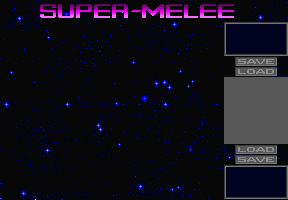
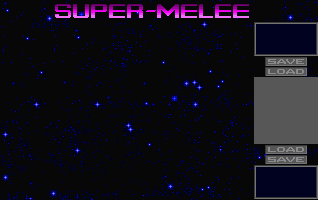
2 more melee ship slots, as the PC SC2 had. From chmmravatar. Bug #248.
git-svn-id: https://sc2.svn.sourceforge.net/svnroot/sc2/trunk/sc2@1123 8092fc87-c524-0410-9efc-e669fe64eaf9

diff --git a/src/sc2code/melee.c b/src/sc2code/melee.c
@@ -55,17 +55,18 @@ enum
 	EDIT_MELEE
 };
 
-#define MELEE_X_OFFS 4
+#define MELEE_X_OFFS 2
 #define MELEE_Y_OFFS 21
 #define MELEE_BOX_WIDTH 34
 #define MELEE_BOX_HEIGHT 34
 #define MELEE_BOX_SPACE 1
 
+#define MENU_X_OFFS 29
 #define NAME_AREA_HEIGHT 7
-#define MELEE_WIDTH 133
+#define MELEE_WIDTH 149
 #define MELEE_HEIGHT (48 + NAME_AREA_HEIGHT)
 
-#define INFO_ORIGIN_X 3
+#define INFO_ORIGIN_X 4
 #define INFO_WIDTH 58
 #define TEAM_INFO_ORIGIN_Y 3
 #define TEAM_INFO_HEIGHT (SHIP_INFO_HEIGHT + 75)
@@ -575,7 +576,7 @@ DrawMeleeShipStrings (PMELEE_STATE pMS, BYTE NewStarShip)
 	OldContext = SetContext (StatusContext);
 	GetContextClipRect (&OldRect);
 	r = OldRect;
-	r.corner.x += ((SAFE_X << 1) - 32);
+	r.corner.x += ((SAFE_X << 1) - 32) + MENU_X_OFFS;
 	r.corner.y += 76;
 	r.extent.height = SHIP_INFO_HEIGHT;
 	SetContextClipRect (&r);
@@ -1757,12 +1758,14 @@ InitPreBuilt (PMELEE_STATE pMS)
 	pMS->PreBuiltList[0].ShipList[0][3] = MELEE_URQUAN;
 	pMS->PreBuiltList[0].ShipList[0][4] = MELEE_MELNORME;
 	pMS->PreBuiltList[0].ShipList[0][5] = MELEE_ORZ;
-	pMS->PreBuiltList[0].ShipList[1][0] = MELEE_SPATHI;
-	pMS->PreBuiltList[0].ShipList[1][1] = MELEE_SYREEN;
-	pMS->PreBuiltList[0].ShipList[1][2] = MELEE_UTWIG;
+	pMS->PreBuiltList[0].ShipList[0][6] = MELEE_SPATHI;
+	pMS->PreBuiltList[0].ShipList[1][0] = MELEE_SYREEN;
+	pMS->PreBuiltList[0].ShipList[1][1] = MELEE_UTWIG;
+	pMS->PreBuiltList[0].ShipList[1][2] = (BYTE)~0;
 	pMS->PreBuiltList[0].ShipList[1][3] = (BYTE)~0;
 	pMS->PreBuiltList[0].ShipList[1][4] = (BYTE)~0;
 	pMS->PreBuiltList[0].ShipList[1][5] = (BYTE)~0;
+	pMS->PreBuiltList[0].ShipList[1][6] = (BYTE)~0;
 
 	wstrcpy (pMS->PreBuiltList[1].TeamName, GAME_STRING (MELEE_STRING_BASE + 5));
 	pMS->PreBuiltList[1].ShipList[0][0] = MELEE_ARILOU;
@@ -1771,12 +1774,14 @@ InitPreBuilt (PMELEE_STATE pMS)
 	pMS->PreBuiltList[1].ShipList[0][3] = MELEE_KOHR_AH;
 	pMS->PreBuiltList[1].ShipList[0][4] = MELEE_MYCON;
 	pMS->PreBuiltList[1].ShipList[0][5] = MELEE_YEHAT;
-	pMS->PreBuiltList[1].ShipList[1][0] = MELEE_PKUNK;
-	pMS->PreBuiltList[1].ShipList[1][1] = MELEE_SUPOX;
-	pMS->PreBuiltList[1].ShipList[1][2] = MELEE_THRADDASH;
-	pMS->PreBuiltList[1].ShipList[1][3] = MELEE_ZOQFOTPIK;
-	pMS->PreBuiltList[1].ShipList[1][4] = MELEE_SHOFIXTI;
+	pMS->PreBuiltList[1].ShipList[0][6] = MELEE_PKUNK;
+	pMS->PreBuiltList[1].ShipList[1][0] = MELEE_SUPOX;
+	pMS->PreBuiltList[1].ShipList[1][1] = MELEE_THRADDASH;
+	pMS->PreBuiltList[1].ShipList[1][2] = MELEE_ZOQFOTPIK;
+	pMS->PreBuiltList[1].ShipList[1][3] = MELEE_SHOFIXTI;
+	pMS->PreBuiltList[1].ShipList[1][4] = (BYTE)~0;
 	pMS->PreBuiltList[1].ShipList[1][5] = (BYTE)~0;
+	pMS->PreBuiltList[1].ShipList[1][6] = (BYTE)~0;
 
 	wstrcpy (pMS->PreBuiltList[2].TeamName, GAME_STRING (MELEE_STRING_BASE + 6));
 	pMS->PreBuiltList[2].ShipList[0][0] = MELEE_ANDROSYNTH;
@@ -1785,12 +1790,14 @@ InitPreBuilt (PMELEE_STATE pMS)
 	pMS->PreBuiltList[2].ShipList[0][3] = MELEE_MELNORME;
 	pMS->PreBuiltList[2].ShipList[0][4] = MELEE_EARTHLING;
 	pMS->PreBuiltList[2].ShipList[0][5] = MELEE_KOHR_AH;
-	pMS->PreBuiltList[2].ShipList[1][0] = MELEE_SUPOX;
-	pMS->PreBuiltList[2].ShipList[1][1] = MELEE_ORZ;
-	pMS->PreBuiltList[2].ShipList[1][2] = MELEE_SPATHI;
-	pMS->PreBuiltList[2].ShipList[1][3] = MELEE_ILWRATH;
-	pMS->PreBuiltList[2].ShipList[1][4] = MELEE_VUX;
+	pMS->PreBuiltList[2].ShipList[0][6] = MELEE_SUPOX;
+	pMS->PreBuiltList[2].ShipList[1][0] = MELEE_ORZ;
+	pMS->PreBuiltList[2].ShipList[1][1] = MELEE_SPATHI;
+	pMS->PreBuiltList[2].ShipList[1][2] = MELEE_ILWRATH;
+	pMS->PreBuiltList[2].ShipList[1][3] = MELEE_VUX;
+	pMS->PreBuiltList[2].ShipList[1][4] = (BYTE)~0;
 	pMS->PreBuiltList[2].ShipList[1][5] = (BYTE)~0;
+	pMS->PreBuiltList[2].ShipList[1][6] = (BYTE)~0;
 
 	wstrcpy (pMS->PreBuiltList[3].TeamName, GAME_STRING (MELEE_STRING_BASE + 7));
 	pMS->PreBuiltList[3].ShipList[0][0] = MELEE_CHENJESU;
@@ -1799,12 +1806,14 @@ InitPreBuilt (PMELEE_STATE pMS)
 	pMS->PreBuiltList[3].ShipList[0][3] = MELEE_CHMMR;
 	pMS->PreBuiltList[3].ShipList[0][4] = MELEE_KOHR_AH;
 	pMS->PreBuiltList[3].ShipList[0][5] = MELEE_KOHR_AH;
+	pMS->PreBuiltList[3].ShipList[0][6] = MELEE_URQUAN;
 	pMS->PreBuiltList[3].ShipList[1][0] = MELEE_URQUAN;
-	pMS->PreBuiltList[3].ShipList[1][1] = MELEE_URQUAN;
+	pMS->PreBuiltList[3].ShipList[1][1] = MELEE_UTWIG;
 	pMS->PreBuiltList[3].ShipList[1][2] = MELEE_UTWIG;
-	pMS->PreBuiltList[3].ShipList[1][3] = MELEE_UTWIG;
+	pMS->PreBuiltList[3].ShipList[1][3] = (BYTE)~0;
 	pMS->PreBuiltList[3].ShipList[1][4] = (BYTE)~0;
 	pMS->PreBuiltList[3].ShipList[1][5] = (BYTE)~0;
+	pMS->PreBuiltList[3].ShipList[1][6] = (BYTE)~0;
 
 	wstrcpy (pMS->PreBuiltList[4].TeamName, GAME_STRING (MELEE_STRING_BASE + 8));
 	pMS->PreBuiltList[4].ShipList[0][0] = MELEE_URQUAN;
@@ -1813,12 +1822,174 @@ InitPreBuilt (PMELEE_STATE pMS)
 	pMS->PreBuiltList[4].ShipList[0][3] = MELEE_SYREEN;
 	pMS->PreBuiltList[4].ShipList[0][4] = MELEE_ZOQFOTPIK;
 	pMS->PreBuiltList[4].ShipList[0][5] = MELEE_SHOFIXTI;
-	pMS->PreBuiltList[4].ShipList[1][0] = MELEE_EARTHLING;
-	pMS->PreBuiltList[4].ShipList[1][1] = MELEE_KOHR_AH;
-	pMS->PreBuiltList[4].ShipList[1][2] = MELEE_MELNORME;
-	pMS->PreBuiltList[4].ShipList[1][3] = MELEE_DRUUGE;
-	pMS->PreBuiltList[4].ShipList[1][4] = MELEE_PKUNK;
-	pMS->PreBuiltList[4].ShipList[1][5] = MELEE_ORZ;
+	pMS->PreBuiltList[4].ShipList[0][6] = MELEE_EARTHLING;
+	pMS->PreBuiltList[4].ShipList[1][0] = MELEE_KOHR_AH;
+	pMS->PreBuiltList[4].ShipList[1][1] = MELEE_MELNORME;
+	pMS->PreBuiltList[4].ShipList[1][2] = MELEE_DRUUGE;
+	pMS->PreBuiltList[4].ShipList[1][3] = MELEE_PKUNK;
+	pMS->PreBuiltList[4].ShipList[1][4] = MELEE_ORZ;
+	pMS->PreBuiltList[4].ShipList[1][5] = (BYTE)~0;
+	pMS->PreBuiltList[4].ShipList[1][6] = (BYTE)~0;
+
+	wstrcpy (pMS->PreBuiltList[5].TeamName, "Ford's Fighters");
+	pMS->PreBuiltList[5].ShipList[0][0] = MELEE_CHMMR;
+	pMS->PreBuiltList[5].ShipList[0][1] = MELEE_ZOQFOTPIK;
+	pMS->PreBuiltList[5].ShipList[0][2] = MELEE_MELNORME;
+	pMS->PreBuiltList[5].ShipList[0][3] = MELEE_SUPOX;
+	pMS->PreBuiltList[5].ShipList[0][4] = MELEE_UTWIG;
+	pMS->PreBuiltList[5].ShipList[0][5] = MELEE_UMGAH;
+	pMS->PreBuiltList[5].ShipList[0][6] = (BYTE)~0;
+	pMS->PreBuiltList[5].ShipList[1][0] = (BYTE)~0;
+	pMS->PreBuiltList[5].ShipList[1][1] = (BYTE)~0;
+	pMS->PreBuiltList[5].ShipList[1][2] = (BYTE)~0;
+	pMS->PreBuiltList[5].ShipList[1][3] = (BYTE)~0;
+	pMS->PreBuiltList[5].ShipList[1][4] = (BYTE)~0;
+	pMS->PreBuiltList[5].ShipList[1][5] = (BYTE)~0;
+	pMS->PreBuiltList[5].ShipList[1][6] = (BYTE)~0;
+
+	wstrcpy (pMS->PreBuiltList[6].TeamName, "Leyland's Lashers");
+	pMS->PreBuiltList[6].ShipList[0][0] = MELEE_ANDROSYNTH;
+	pMS->PreBuiltList[6].ShipList[0][1] = MELEE_EARTHLING;
+	pMS->PreBuiltList[6].ShipList[0][2] = MELEE_MYCON;
+	pMS->PreBuiltList[6].ShipList[0][3] = MELEE_ORZ;
+	pMS->PreBuiltList[6].ShipList[0][4] = MELEE_URQUAN;
+	pMS->PreBuiltList[6].ShipList[0][5] = (BYTE)~0;
+	pMS->PreBuiltList[6].ShipList[0][6] = (BYTE)~0;
+	pMS->PreBuiltList[6].ShipList[1][0] = (BYTE)~0;
+	pMS->PreBuiltList[6].ShipList[1][1] = (BYTE)~0;
+	pMS->PreBuiltList[6].ShipList[1][2] = (BYTE)~0;
+	pMS->PreBuiltList[6].ShipList[1][3] = (BYTE)~0;
+	pMS->PreBuiltList[6].ShipList[1][4] = (BYTE)~0;
+	pMS->PreBuiltList[6].ShipList[1][5] = (BYTE)~0;
+	pMS->PreBuiltList[6].ShipList[1][6] = (BYTE)~0;
+
+	wstrcpy (pMS->PreBuiltList[7].TeamName, "The Gregorizers 200");
+	pMS->PreBuiltList[7].ShipList[0][0] = MELEE_ANDROSYNTH;
+	pMS->PreBuiltList[7].ShipList[0][1] = MELEE_CHMMR;
+	pMS->PreBuiltList[7].ShipList[0][2] = MELEE_DRUUGE;
+	pMS->PreBuiltList[7].ShipList[0][3] = MELEE_MELNORME;
+	pMS->PreBuiltList[7].ShipList[0][4] = MELEE_EARTHLING;
+	pMS->PreBuiltList[7].ShipList[0][5] = MELEE_KOHR_AH;
+	pMS->PreBuiltList[7].ShipList[0][6] = MELEE_SUPOX;
+	pMS->PreBuiltList[7].ShipList[1][0] = MELEE_ORZ;
+	pMS->PreBuiltList[7].ShipList[1][1] = MELEE_PKUNK;
+	pMS->PreBuiltList[7].ShipList[1][2] = MELEE_SPATHI;
+	pMS->PreBuiltList[7].ShipList[1][3] = (BYTE)~0;
+	pMS->PreBuiltList[7].ShipList[1][4] = (BYTE)~0;
+	pMS->PreBuiltList[7].ShipList[1][5] = (BYTE)~0;
+	pMS->PreBuiltList[7].ShipList[1][6] = (BYTE)~0;
+
+	wstrcpy (pMS->PreBuiltList[8].TeamName, "300 point Armada!");
+	pMS->PreBuiltList[8].ShipList[0][0] = MELEE_ANDROSYNTH;
+	pMS->PreBuiltList[8].ShipList[0][1] = MELEE_CHMMR;
+	pMS->PreBuiltList[8].ShipList[0][2] = MELEE_CHENJESU;
+	pMS->PreBuiltList[8].ShipList[0][3] = MELEE_DRUUGE;
+	pMS->PreBuiltList[8].ShipList[0][4] = MELEE_EARTHLING;
+	pMS->PreBuiltList[8].ShipList[0][5] = MELEE_KOHR_AH;
+	pMS->PreBuiltList[8].ShipList[0][6] = MELEE_MELNORME;
+	pMS->PreBuiltList[8].ShipList[1][0] = MELEE_MYCON;
+	pMS->PreBuiltList[8].ShipList[1][1] = MELEE_ORZ;
+	pMS->PreBuiltList[8].ShipList[1][2] = MELEE_PKUNK;
+	pMS->PreBuiltList[8].ShipList[1][3] = MELEE_SPATHI;
+	pMS->PreBuiltList[8].ShipList[1][4] = MELEE_SUPOX;
+	pMS->PreBuiltList[8].ShipList[1][5] = MELEE_URQUAN;
+	pMS->PreBuiltList[8].ShipList[1][6] = MELEE_YEHAT;
+
+	wstrcpy (pMS->PreBuiltList[9].TeamName, "Little Dudes with Attitudes");
+	pMS->PreBuiltList[9].ShipList[0][0] = MELEE_UMGAH;
+	pMS->PreBuiltList[9].ShipList[0][1] = MELEE_THRADDASH;
+	pMS->PreBuiltList[9].ShipList[0][2] = MELEE_SHOFIXTI;
+	pMS->PreBuiltList[9].ShipList[0][3] = MELEE_EARTHLING;
+	pMS->PreBuiltList[9].ShipList[0][4] = MELEE_VUX;
+	pMS->PreBuiltList[9].ShipList[0][5] = MELEE_ZOQFOTPIK;
+	pMS->PreBuiltList[9].ShipList[0][6] = (BYTE)~0;
+	pMS->PreBuiltList[9].ShipList[1][0] = (BYTE)~0;
+	pMS->PreBuiltList[9].ShipList[1][1] = (BYTE)~0;
+	pMS->PreBuiltList[9].ShipList[1][2] = (BYTE)~0;
+	pMS->PreBuiltList[9].ShipList[1][3] = (BYTE)~0;
+	pMS->PreBuiltList[9].ShipList[1][4] = (BYTE)~0;
+	pMS->PreBuiltList[9].ShipList[1][5] = (BYTE)~0;
+	pMS->PreBuiltList[9].ShipList[1][6] = (BYTE)~0;
+
+	wstrcpy (pMS->PreBuiltList[10].TeamName, "New Alliance Ships");
+	pMS->PreBuiltList[10].ShipList[0][0] = MELEE_ARILOU;
+	pMS->PreBuiltList[10].ShipList[0][1] = MELEE_CHMMR;
+	pMS->PreBuiltList[10].ShipList[0][2] = MELEE_EARTHLING;
+	pMS->PreBuiltList[10].ShipList[0][3] = MELEE_ORZ;
+	pMS->PreBuiltList[10].ShipList[0][4] = MELEE_PKUNK;
+	pMS->PreBuiltList[10].ShipList[0][5] = MELEE_SHOFIXTI;
+	pMS->PreBuiltList[10].ShipList[0][6] = MELEE_SUPOX;
+	pMS->PreBuiltList[10].ShipList[1][0] = MELEE_SYREEN;
+	pMS->PreBuiltList[10].ShipList[1][1] = MELEE_UTWIG;
+	pMS->PreBuiltList[10].ShipList[1][2] = MELEE_ZOQFOTPIK;
+	pMS->PreBuiltList[10].ShipList[1][3] = MELEE_YEHAT;
+	pMS->PreBuiltList[10].ShipList[1][4] = MELEE_DRUUGE;
+	pMS->PreBuiltList[10].ShipList[1][5] = MELEE_THRADDASH;
+	pMS->PreBuiltList[10].ShipList[1][6] = MELEE_SPATHI;
+
+	wstrcpy (pMS->PreBuiltList[11].TeamName, "Old Alliance Ships");
+	pMS->PreBuiltList[11].ShipList[0][0] = MELEE_ARILOU;
+	pMS->PreBuiltList[11].ShipList[0][1] = MELEE_CHENJESU;
+	pMS->PreBuiltList[11].ShipList[0][2] = MELEE_EARTHLING;
+	pMS->PreBuiltList[11].ShipList[0][3] = MELEE_MMRNMHRM;
+	pMS->PreBuiltList[11].ShipList[0][4] = MELEE_SHOFIXTI;
+	pMS->PreBuiltList[11].ShipList[0][5] = MELEE_SYREEN;
+	pMS->PreBuiltList[11].ShipList[0][6] = MELEE_YEHAT;
+	pMS->PreBuiltList[11].ShipList[1][0] = (BYTE)~0;
+	pMS->PreBuiltList[11].ShipList[1][1] = (BYTE)~0;
+	pMS->PreBuiltList[11].ShipList[1][2] = (BYTE)~0;
+	pMS->PreBuiltList[11].ShipList[1][3] = (BYTE)~0;
+	pMS->PreBuiltList[11].ShipList[1][4] = (BYTE)~0;
+	pMS->PreBuiltList[11].ShipList[1][5] = (BYTE)~0;
+	pMS->PreBuiltList[11].ShipList[1][6] = (BYTE)~0;
+
+	wstrcpy (pMS->PreBuiltList[12].TeamName, "Old Hierarchy Ships");
+	pMS->PreBuiltList[12].ShipList[0][0] = MELEE_ANDROSYNTH;
+	pMS->PreBuiltList[12].ShipList[0][1] = MELEE_ILWRATH;
+	pMS->PreBuiltList[12].ShipList[0][2] = MELEE_MYCON;
+	pMS->PreBuiltList[12].ShipList[0][3] = MELEE_SPATHI;
+	pMS->PreBuiltList[12].ShipList[0][4] = MELEE_UMGAH;
+	pMS->PreBuiltList[12].ShipList[0][5] = MELEE_URQUAN;
+	pMS->PreBuiltList[12].ShipList[0][6] = MELEE_VUX;
+	pMS->PreBuiltList[12].ShipList[1][0] = (BYTE)~0;
+	pMS->PreBuiltList[12].ShipList[1][1] = (BYTE)~0;
+	pMS->PreBuiltList[12].ShipList[1][2] = (BYTE)~0;
+	pMS->PreBuiltList[12].ShipList[1][3] = (BYTE)~0;
+	pMS->PreBuiltList[12].ShipList[1][4] = (BYTE)~0;
+	pMS->PreBuiltList[12].ShipList[1][5] = (BYTE)~0;
+	pMS->PreBuiltList[12].ShipList[1][6] = (BYTE)~0;
+
+	wstrcpy (pMS->PreBuiltList[13].TeamName, "Star Control 1");
+	pMS->PreBuiltList[13].ShipList[0][0] = MELEE_ANDROSYNTH;
+	pMS->PreBuiltList[13].ShipList[0][1] = MELEE_ARILOU;
+	pMS->PreBuiltList[13].ShipList[0][2] = MELEE_CHENJESU;
+	pMS->PreBuiltList[13].ShipList[0][3] = MELEE_EARTHLING;
+	pMS->PreBuiltList[13].ShipList[0][4] = MELEE_ILWRATH;
+	pMS->PreBuiltList[13].ShipList[0][5] = MELEE_MMRNMHRM;
+	pMS->PreBuiltList[13].ShipList[0][6] = MELEE_MYCON;
+	pMS->PreBuiltList[13].ShipList[1][0] = MELEE_SHOFIXTI;
+	pMS->PreBuiltList[13].ShipList[1][1] = MELEE_SPATHI;
+	pMS->PreBuiltList[13].ShipList[1][2] = MELEE_SYREEN;
+	pMS->PreBuiltList[13].ShipList[1][3] = MELEE_UMGAH;
+	pMS->PreBuiltList[13].ShipList[1][4] = MELEE_URQUAN;
+	pMS->PreBuiltList[13].ShipList[1][5] = MELEE_VUX;
+	pMS->PreBuiltList[13].ShipList[1][6] = MELEE_YEHAT;
+
+	wstrcpy (pMS->PreBuiltList[14].TeamName, "Star Control 2");
+	pMS->PreBuiltList[14].ShipList[0][0] = MELEE_CHMMR;
+	pMS->PreBuiltList[14].ShipList[0][1] = MELEE_DRUUGE;
+	pMS->PreBuiltList[14].ShipList[0][2] = MELEE_KOHR_AH;
+	pMS->PreBuiltList[14].ShipList[0][3] = MELEE_MELNORME;
+	pMS->PreBuiltList[14].ShipList[0][4] = MELEE_ORZ;
+	pMS->PreBuiltList[14].ShipList[0][5] = MELEE_PKUNK;
+	pMS->PreBuiltList[14].ShipList[0][6] = MELEE_SLYLANDRO;
+	pMS->PreBuiltList[14].ShipList[1][0] = MELEE_SUPOX;
+	pMS->PreBuiltList[14].ShipList[1][1] = MELEE_THRADDASH;
+	pMS->PreBuiltList[14].ShipList[1][2] = MELEE_UTWIG;
+	pMS->PreBuiltList[14].ShipList[1][3] = MELEE_ZOQFOTPIK;
+	pMS->PreBuiltList[14].ShipList[1][4] = MELEE_ZOQFOTPIK;
+	pMS->PreBuiltList[14].ShipList[1][5] = MELEE_ZOQFOTPIK;
+	pMS->PreBuiltList[14].ShipList[1][6] = MELEE_ZOQFOTPIK;
 }
 
 void

diff --git a/src/sc2code/melee.h b/src/sc2code/melee.h
@@ -53,8 +53,8 @@ enum
 };
 
 #define NUM_MELEE_ROWS 2
-// #define NUM_MELEE_COLUMNS 7
-#define NUM_MELEE_COLUMNS 6
+#define NUM_MELEE_COLUMNS 7
+//#define NUM_MELEE_COLUMNS 6
 #define ICON_WIDTH 16
 #define ICON_HEIGHT 16
 
@@ -62,9 +62,9 @@ extern FRAME PickMeleeFrame;
 
 #define PICK_BG_COLOR BUILD_COLOR (MAKE_RGB15 (0x00, 0x01, 0x0F), 0x1)
 
-#define MAX_TEAM_CHARS 15
+#define MAX_TEAM_CHARS 30
 #define MAX_VIS_TEAMS 5
-#define NUM_PREBUILT 5
+#define NUM_PREBUILT 15
 #define NUM_PICK_COLS 5
 #define NUM_PICK_ROWS 5
 

diff --git a/src/sc2code/pickmele.c b/src/sc2code/pickmele.c
@@ -19,7 +19,7 @@
 #include "starcon.h"
 #include "melee.h"
 
-#define NUM_MELEE_COLS_ORIG 6
+#define NUM_MELEE_COLS_ORIG NUM_MELEE_COLUMNS
 #define PICK_X_OFFS 57
 #define PICK_Y_OFFS 24
 #define PICK_SIDE_OFFS 100
